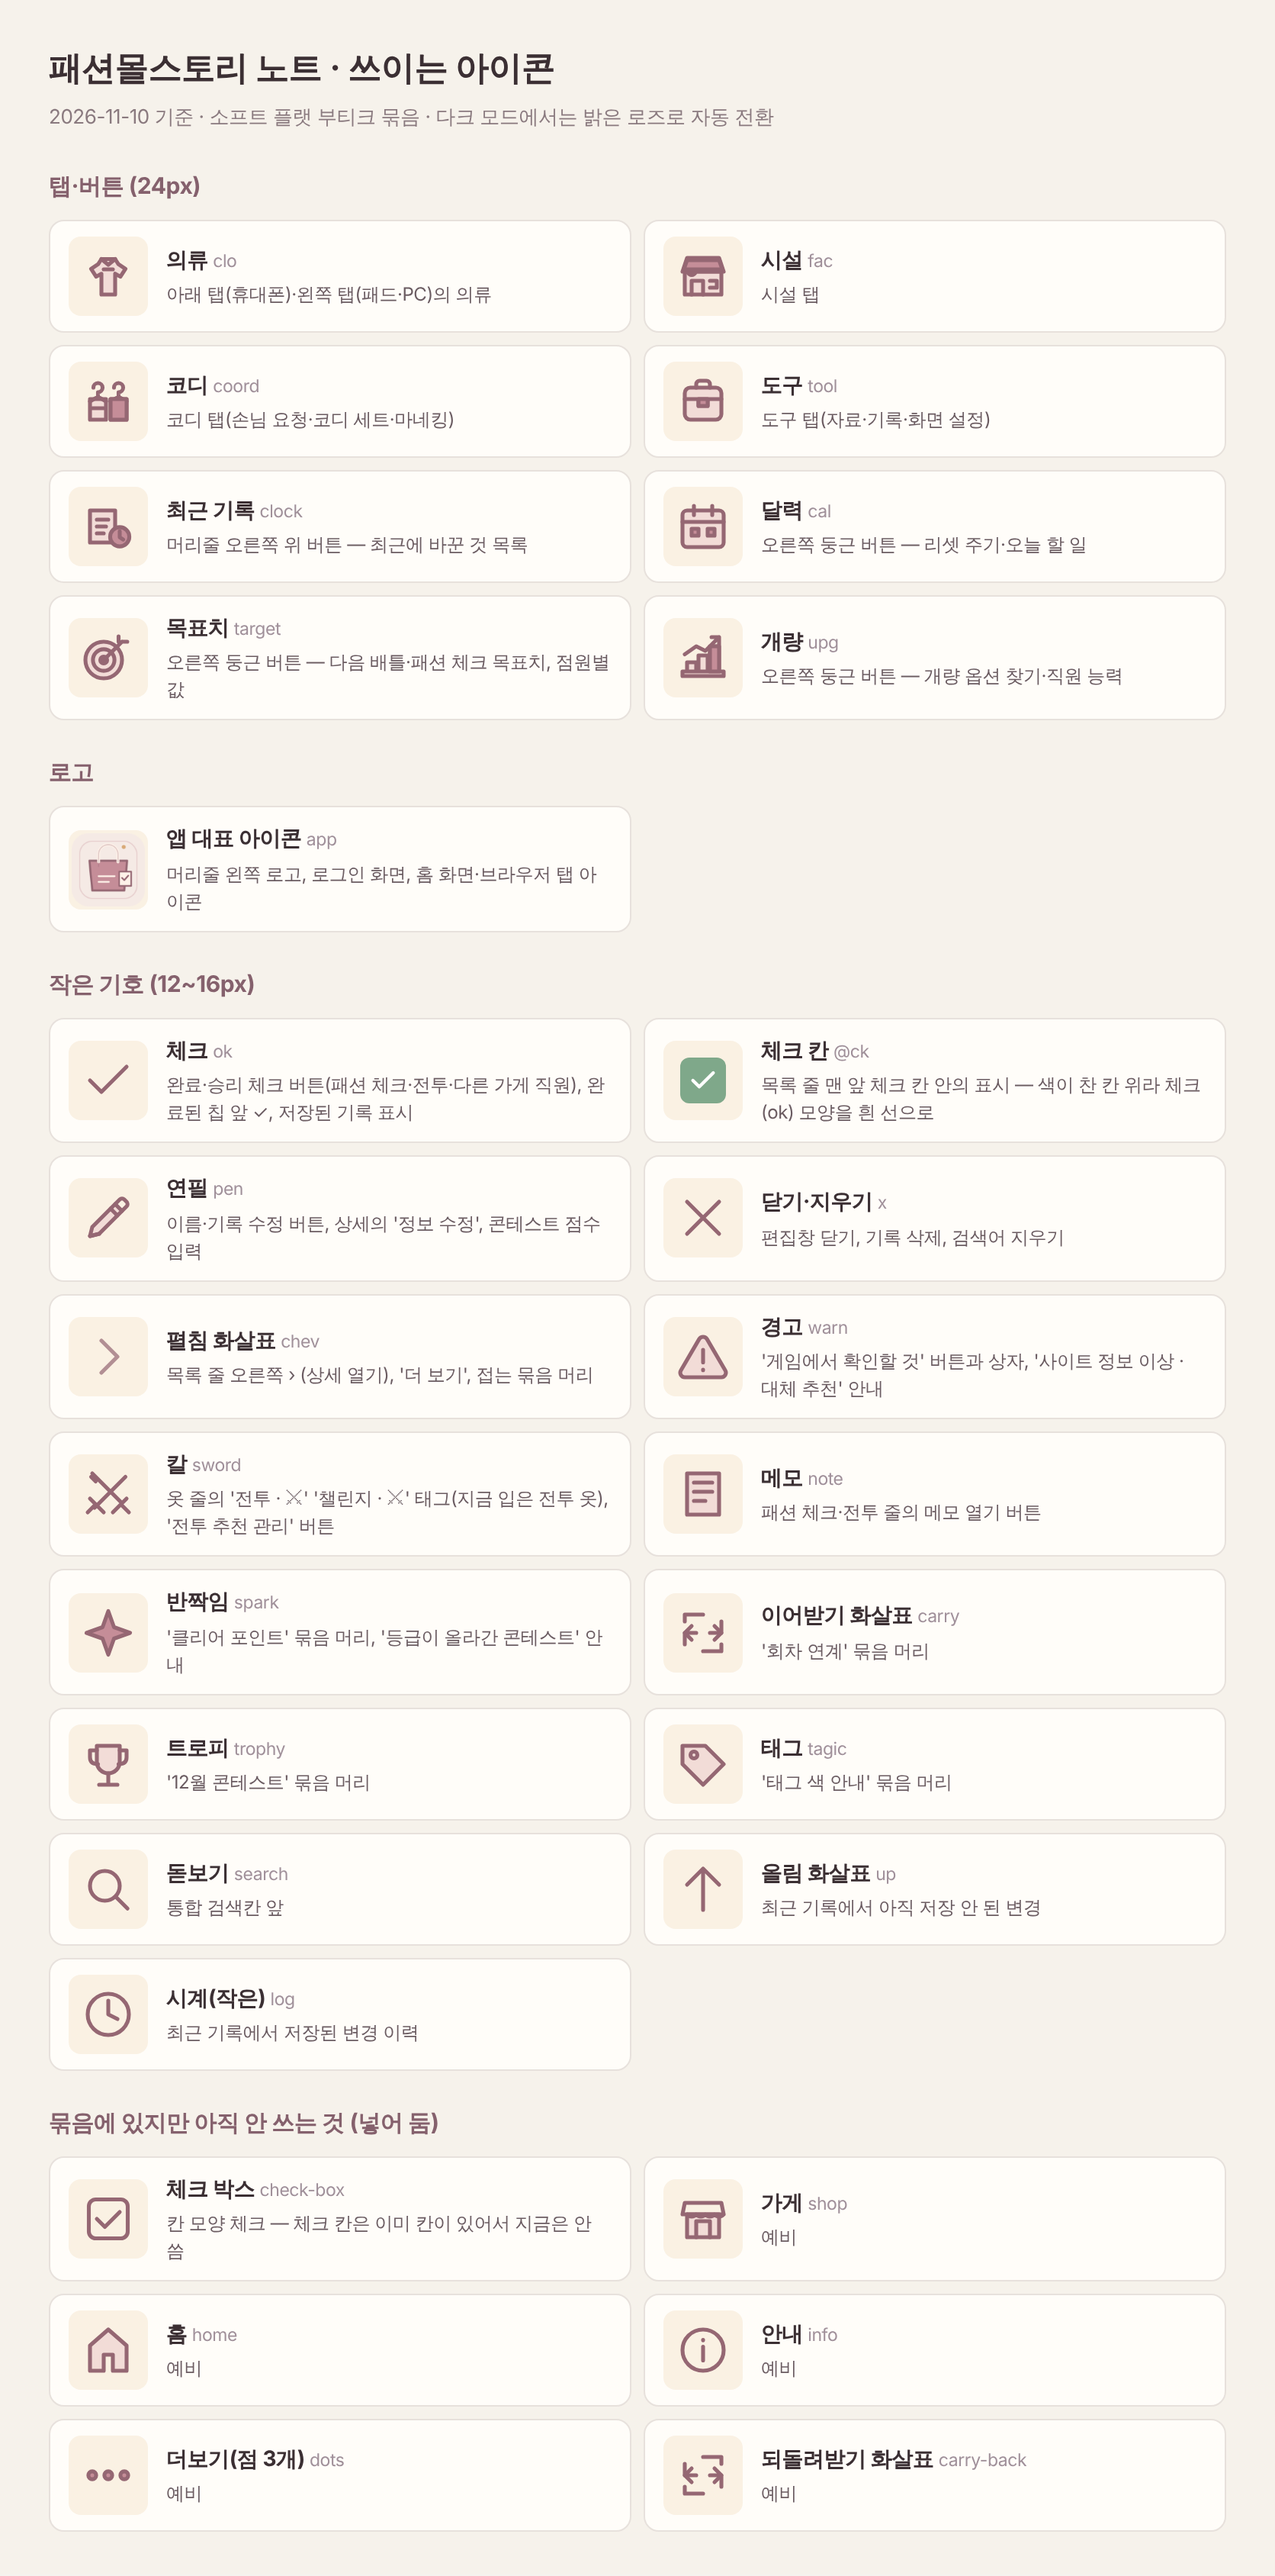
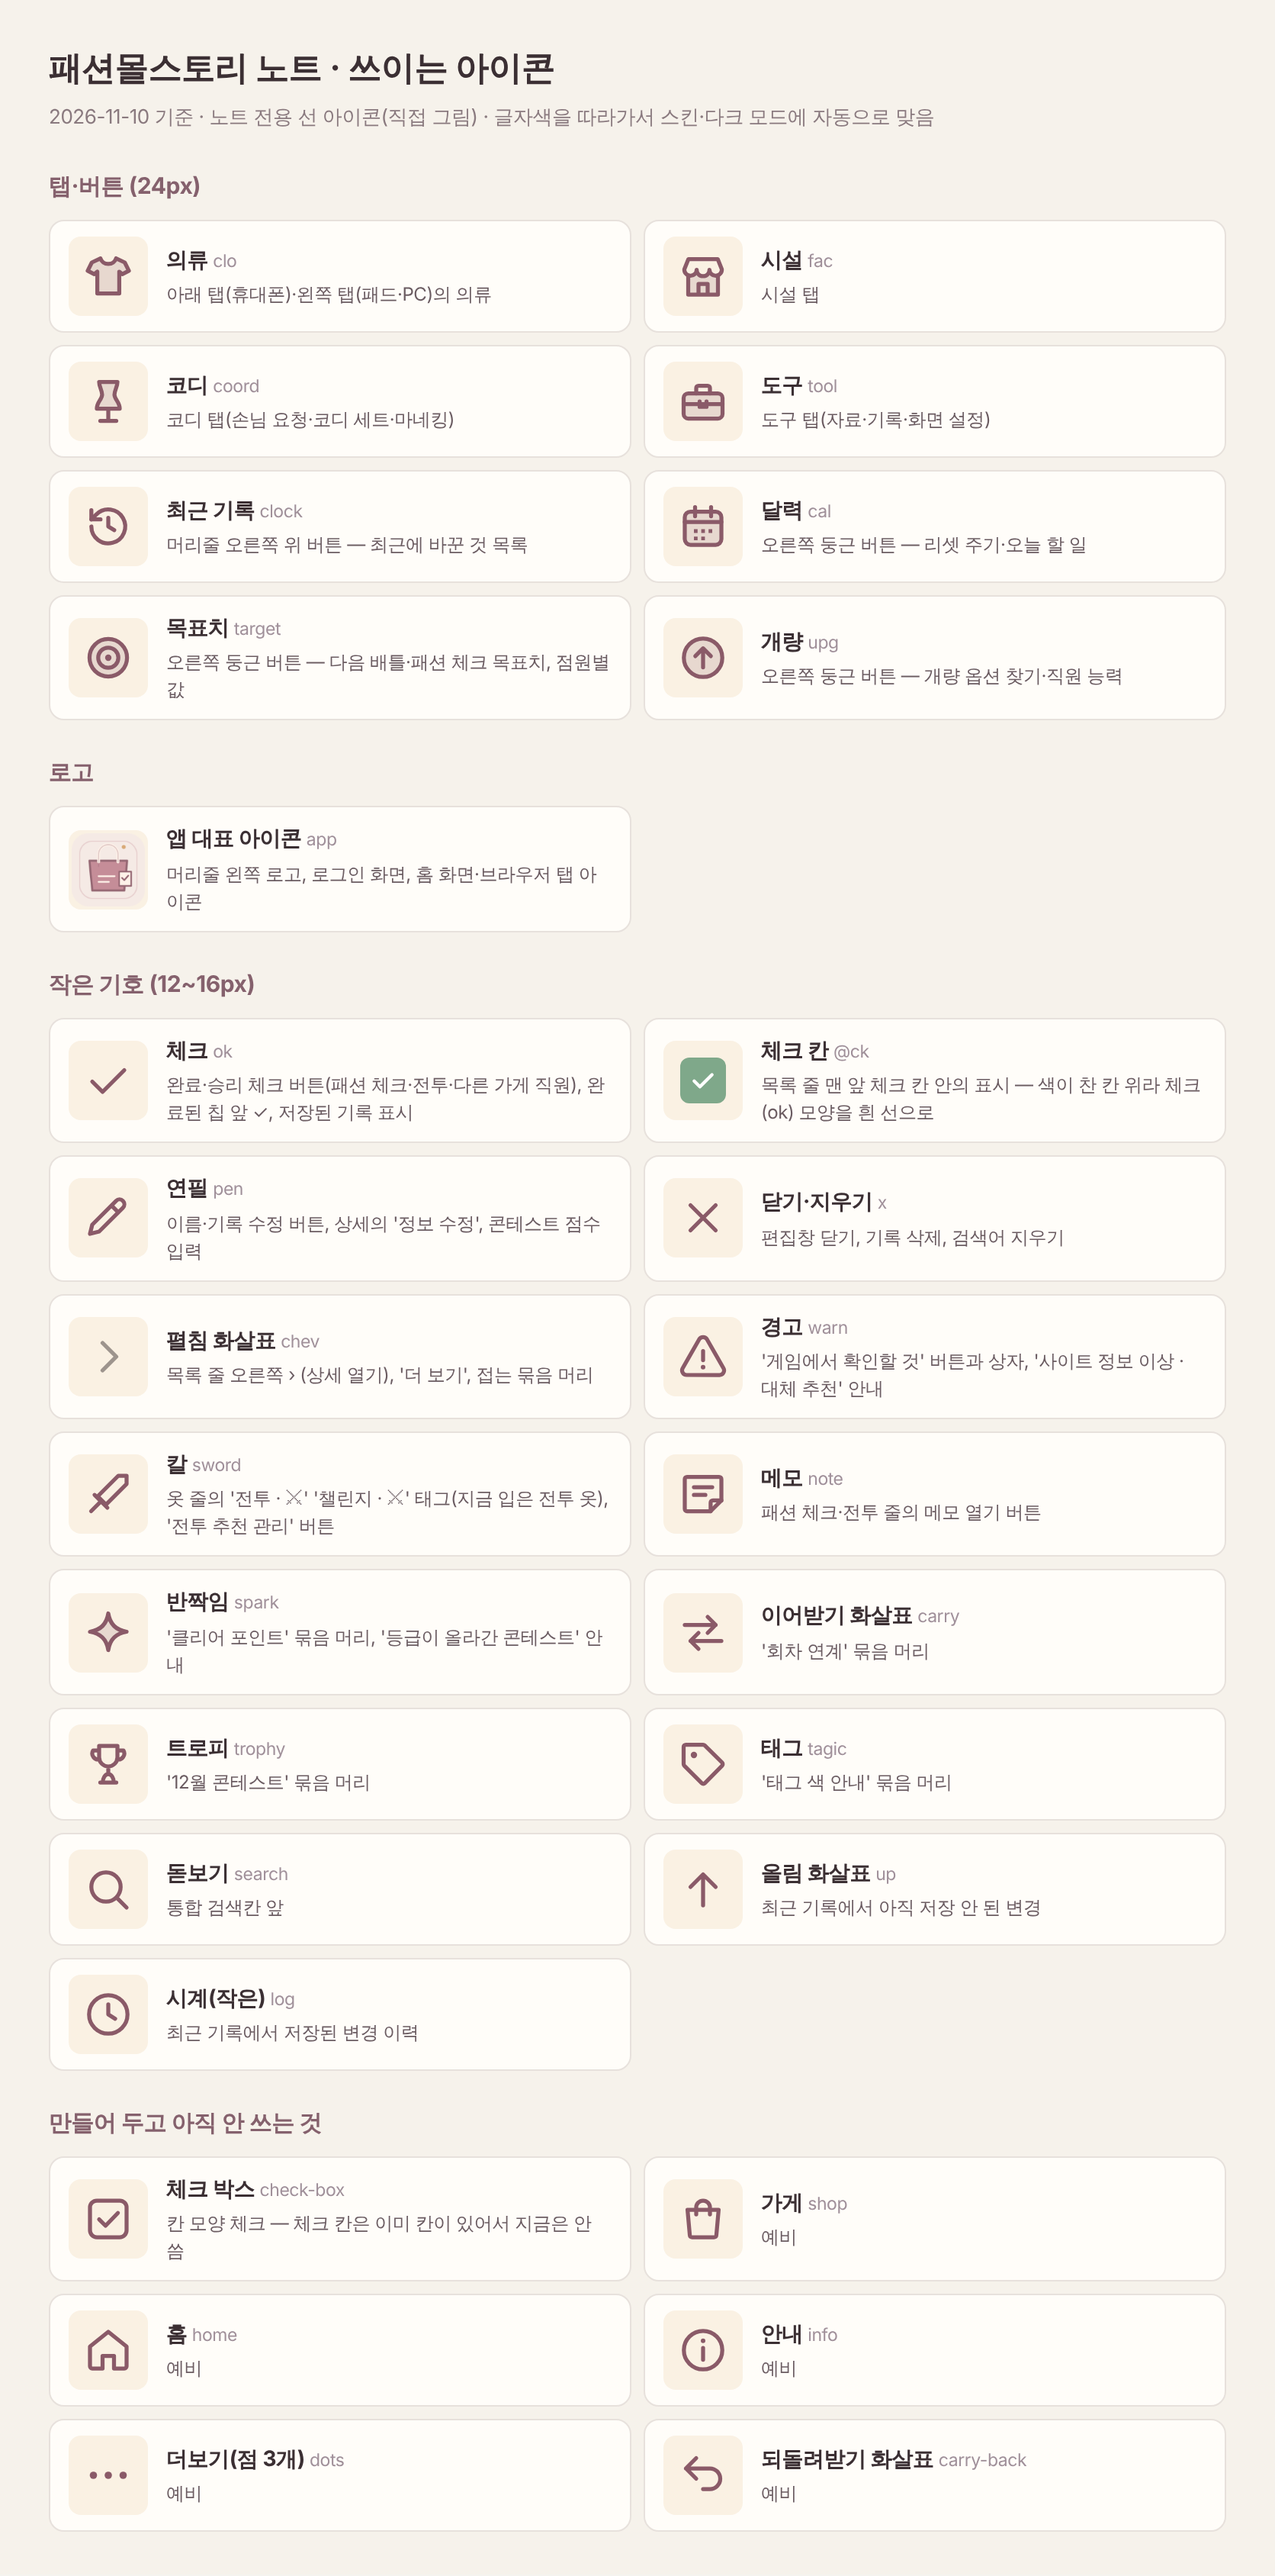
아이콘: 직접 그린 선 아이콘으로 교체(글자색을 따라가 스킨·다크 모드에 자동 맞춤)
Claude-Session: https://claude.ai/code/session_01PB81eFzuYmyKK77Xk6DXot

diff --git a/app/src/ui/pixel-icons.ts b/app/src/ui/pixel-icons.ts
@@ -4,7 +4,7 @@ import { FLAT as PACK } from "./flat-icons";
 import { LINE } from "./line-icons";
 
 /* 어떤 아이콘을 쓸지: "pack" = 소프트 플랫 부티크 묶음(지금 배포), "line" = 직접 그린 선 아이콘(제제 확인 대기) */
-const SET = "pack" as "pack" | "line";
+const SET = "line" as "pack" | "line";
 const FLAT = SET === "line" ? LINE : PACK;
 const CLS = SET === "line" ? "line-icon" : "flat-icon";
 

diff --git a/docs/pixel-icons.md b/docs/pixel-icons.md
@@ -35,3 +35,11 @@
 - 체크 칸 안 표시는 색이 찬 칸 위라 ok 모양을 흰 선으로 쓴다.
 - 원본 파일(라이트·다크 SVG, PNG 16·24·32·48)은 `app/public/icons/ui/{light,dark}/`에 있다. 앱 대표 아이콘·파비콘도 묶음 것으로 교체했고, 로고는 라이트·다크 두 벌 중 하나만 보인다.
 - 목록 이미지: [screenshots/icon-list.png](screenshots/icon-list.png)
+
+## 직접 그린 선 아이콘으로 교체 (2026-11-10)
+- 제제가 묶음 아이콘과 비교해 보고 직접 그린 쪽으로 결정. 28종 전부 `app/src/ui/line-icons.ts`.
+- 24칸 격자, 선 1.75, 둥근 끝. 선은 글자색(currentColor)을 따라가고, 탭 아이콘 등 몇 개만 같은 색 16% 옅은 면을 깐다 → 스킨·메인 색상·다크 모드에 자동으로 맞는다.
+- 그림이 바뀐 것: 코디=마네킹, 최근 기록=되감기 시계, 개량=동그라미 속 위 화살표, 회차 연계=엇갈린 화살표, 칼=한 자루.
+- 앱 대표 아이콘·파비콘은 소프트 플랫 부티크 묶음 그대로.
+- 묶음 아이콘으로 되돌리려면 `app/src/ui/pixel-icons.ts`의 `SET`을 `"pack"`으로.
+- 요청서(이름·용도·색상): [icon-brief.md](icon-brief.md), 목록 이미지: [screenshots/icon-list.png](screenshots/icon-list.png)
